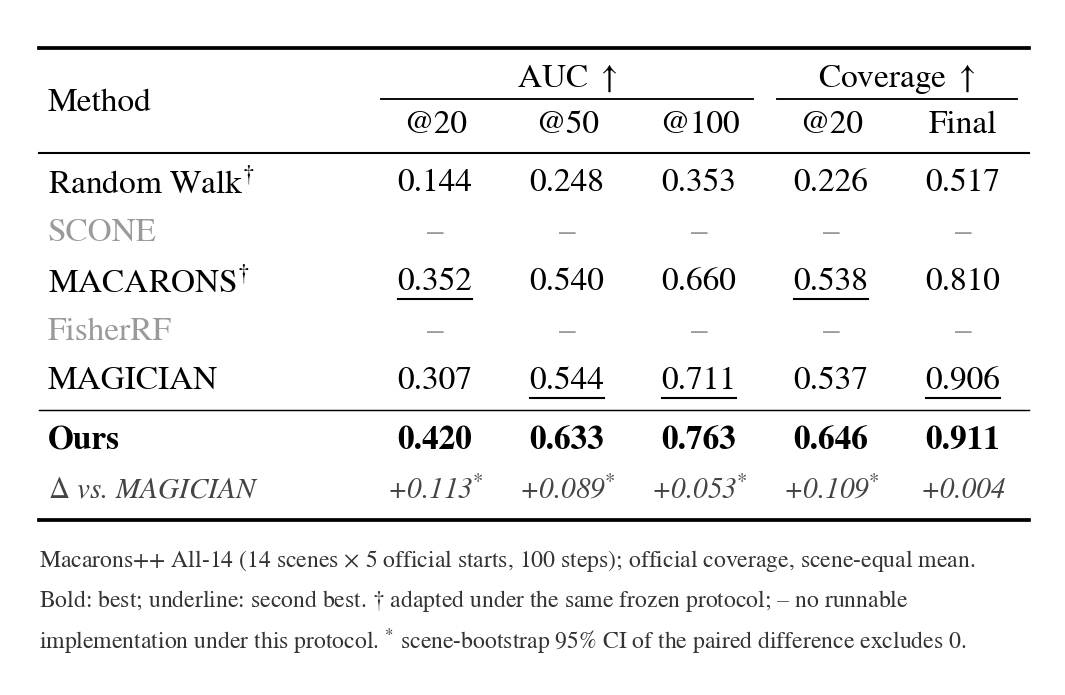
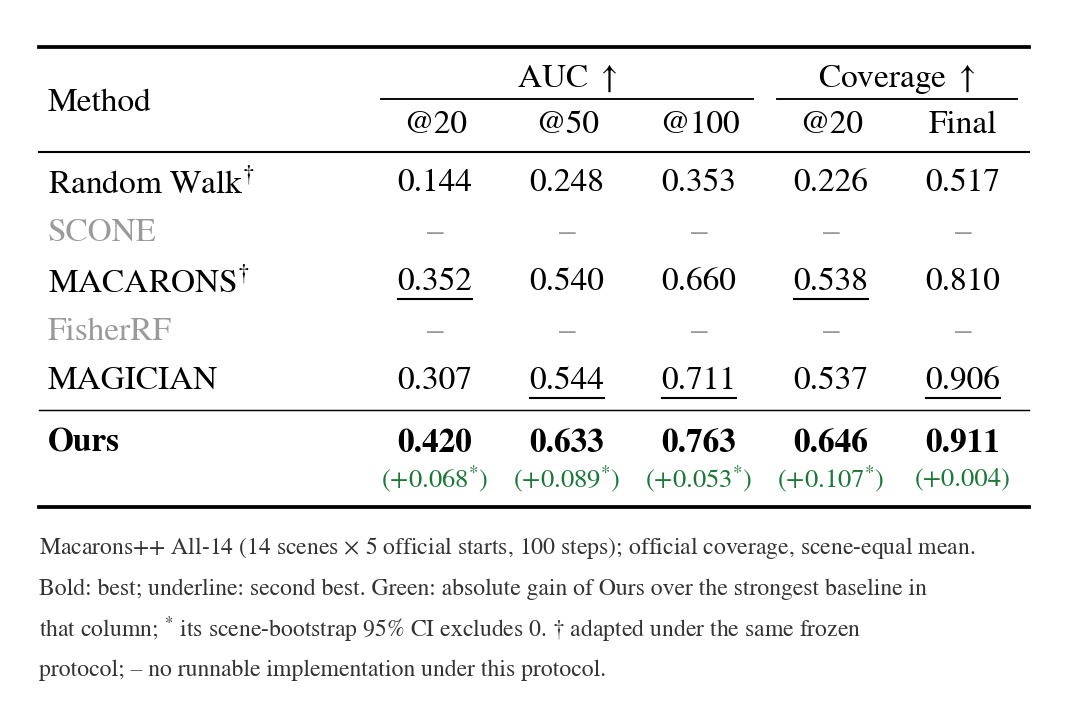
[V3][cvpr] Table 1 v2: drop the Delta row; gains over the strongest baseline per column shown under the Ours values

diff --git a/experiments/cvpr_results/scripts/make_table1_v2.py b/experiments/cvpr_results/scripts/make_table1_v2.py
@@ -1,5 +1,6 @@
-"""CVPR Table 1, paper layout v2 (CPU): two-level header (AUC up | Coverage up), best bold / second-best underlined, a
-'Delta vs. MAGICIAN' row (scene-paired difference, * = scene-bootstrap 95 % CI excludes 0), unavailable baselines greyed.
+"""CVPR Table 1, paper layout v2 (CPU): two-level header (AUC up | Coverage up), best bold / second-best underlined, unavailable
+baselines greyed. Under every value of the Ours row: the absolute gain over the STRONGEST baseline of that column (scene-paired
+difference of the scene-equal means; * = its scene-bootstrap 95 % CI excludes 0). No separate Delta row (user decision 2026-11-10).
 Same numbers as table1_paper.csv (read from table1_all14_full.csv / table1_paired_ours_minus_baseline.csv, which are generated
 from manifest/episodes.csv). Output: fig/table1/table1_v2.{pdf,png,tex,csv}. No LaTeX on the cluster: the PDF / PNG are drawn
 with matplotlib (STIX = Times-compatible, vector, embedded TrueType); the .tex is booktabs and only syntax-checked here."""
@@ -24,6 +25,17 @@ def load():
     return full, pr
 
 
+def gains(full, pr):
+    """per metric: (strongest complete baseline, paired diff Ours - that baseline, significant?)."""
+    out = {}
+    base = [m for m in L.TABLE1 if m != "V3-T0-D1" and full[m]["status"] == "COMPLETE"]
+    for _, _, k in COLS:
+        b = max(base, key=lambda m: float(full[m][k]))
+        r = pr[(b, k)]
+        out[k] = (b, float(r["mean_diff"]), float(r["ci95_lo"]) > 0 or float(r["ci95_hi"]) < 0, float(r["ci95_lo"]), float(r["ci95_hi"]))
+    return out
+
+
 def ranks(full):
     """per metric: (best set, second set) among complete methods, compared after rounding to 3 decimals."""
     comp = [m for m in L.TABLE1 if full[m]["status"] == "COMPLETE"]
@@ -36,8 +48,9 @@ def ranks(full):
 
 def draw(full, pr, base, width=3.35, fs=8.0):
     rk = ranks(full)
+    gn = gains(full, pr)
     methods = L.TABLE1
-    nrow = len(methods) + 1
+    nrow = len(methods) + 0.75
     cw = [1.10] + [(width - 1.10 - 0.05) / len(COLS)] * len(COLS)
     rh = 0.165
     H = rh * (nrow + 2.5) + 0.55
@@ -65,8 +78,10 @@ def draw(full, pr, base, width=3.35, fs=8.0):
             y -= rh * 0.08
             ax.plot([0.03, xr], [y, y], color="k", lw=0.35)
             y -= rh * 0.12
-        yc = y - rh / 2                                                                      # row centre
-        y -= rh
+        ours = m == "V3-T0-D1"
+        hgt = rh * (1.75 if ours else 1.0)
+        yc = y - (rh * 0.5 if not ours else rh * 0.55)                                       # value line centre
+        y -= hgt
         avail = full[m]["status"] == "COMPLETE"
         col = "k" if avail else "#9A9A9A"
         ax.text(x0[0] + 0.03, yc, NAMES[m], fontsize=fs, va="center", ha="left", color=col, fontweight="bold" if m == "V3-T0-D1" else "normal")
@@ -78,13 +93,9 @@ def draw(full, pr, base, width=3.35, fs=8.0):
             t = ax.text(xc[j], yc, f"{float(full[m][k]):.3f}", fontsize=fs, ha="center", va="center", fontweight="bold" if m in best else "normal")
             if m in second:
                 texts.append(t)
-    yc = y - rh * 0.5
-    y -= rh
-    ax.text(x0[0] + 0.03, yc, "$\\Delta$ vs. MAGICIAN", fontsize=fs - 1.0, va="center", ha="left", color="#444444", style="italic")
-    for j, (_, _, k) in enumerate(COLS, 1):
-        r = pr[(base, k)]
-        sig = float(r["ci95_lo"]) > 0 or float(r["ci95_hi"]) < 0
-        ax.text(xc[j], yc, f"{float(r['mean_diff']):+.3f}" + ("$^{*}$" if sig else ""), fontsize=fs - 1.0, ha="center", va="center", color="#444444", style="italic")
+            if ours:
+                _, d, sig, _, _ = gn[k]
+                ax.text(xc[j], yc - rh * 0.72, f"({d:+.3f}" + ("$^{*}$" if sig else "") + ")", fontsize=fs - 1.6, ha="center", va="center", color="#1B7837")
     y -= rh * 0.1
     ax.plot([0.03, xr], [y, y], color="k", lw=0.9)                                           # bottom rule
     fig.canvas.draw()
@@ -94,8 +105,9 @@ def draw(full, pr, base, width=3.35, fs=8.0):
         (a, b_), (c, _) = inv.transform([(bb.x0, bb.y0), (bb.x1, bb.y0)])
         ax.plot([a, c], [b_ - 0.008, b_ - 0.008], color="k", lw=0.5)
     notes = ["Macarons++ All-14 (14 scenes $\\times$ 5 official starts, 100 steps); official coverage, scene-equal mean.",
-             "Bold: best; underline: second best. $\\dagger$ adapted under the same frozen protocol; – no runnable",
-             "implementation under this protocol. $^{*}$ scene-bootstrap 95% CI of the paired difference excludes 0."]
+             "Bold: best; underline: second best. Green: absolute gain of Ours over the strongest baseline in",
+             "that column; $^{*}$ its scene-bootstrap 95% CI excludes 0. $\\dagger$ adapted under the same frozen",
+             "protocol; – no runnable implementation under this protocol."]
     for n in notes:
         y -= 0.135
         ax.text(0.03, y, n, fontsize=fs - 2.3, va="center", ha="left", color="#333333")
@@ -105,7 +117,7 @@ def draw(full, pr, base, width=3.35, fs=8.0):
 def tex(full, pr, base):
     rk = ranks(full)
     L_ = [r"% Table 1 (paper layout v2), generated by experiments/cvpr_results/scripts/make_table1_v2.py -- do not edit by hand",
-          r"% needs \usepackage{booktabs} (and \usepackage{xcolor} for the grey rows)", r"\begin{table}[t]", r"\centering", r"\small", r"\setlength{\tabcolsep}{4pt}",
+          r"% needs \usepackage{booktabs} and \usepackage[dvipsnames]{xcolor} (grey rows, ForestGreen gains)", r"\begin{table}[t]", r"\centering", r"\small", r"\setlength{\tabcolsep}{4pt}",
           r"\begin{tabular}{@{}lccccc@{}}", r"\toprule", r" & \multicolumn{3}{c}{AUC $\uparrow$} & \multicolumn{2}{c}{Coverage $\uparrow$} \\", r"\cmidrule(lr){2-4} \cmidrule(l){5-6}",
           r"Method & @20 & @50 & @100 & @20 & Final \\", r"\midrule"]
     for m in L.TABLE1:
@@ -119,16 +131,15 @@ def tex(full, pr, base):
             v = f"{float(full[m][k]):.3f}"
             best, second = rk[k]
             cells.append(r"\textbf{" + v + "}" if m in best else (r"\underline{" + v + "}" if m in second else v))
+        if m == "V3-T0-D1":
+            gn = gains(full, pr)
+            cells = [r"\begin{tabular}[c]{@{}c@{}}" + c + r" \\[-2pt] {\scriptsize\color{ForestGreen}(" + f"{gn[k][1]:+.3f}".replace("-", "$-$") + (r"$^{*}$" if gn[k][2] else "") + r")}\end{tabular}"
+                     for c, (_, _, k) in zip(cells, COLS)]
         L_.append((r"\textbf{Ours}" if m == "V3-T0-D1" else TEXN[m]) + " & " + " & ".join(cells) + r" \\")
-    d = []
-    for _, _, k in COLS:
-        r = pr[(base, k)]
-        sig = float(r["ci95_lo"]) > 0 or float(r["ci95_hi"]) < 0
-        d.append(r"\textit{" + f"{float(r['mean_diff']):+.3f}".replace("-", "$-$") + "}" + (r"$^{*}$" if sig else ""))
-    L_ += [r"\textit{\footnotesize $\Delta$ vs.\ MAGICIAN} & " + " & ".join(r"{\footnotesize " + x + "}" for x in d) + r" \\", r"\bottomrule", r"\end{tabular}",
+    L_ += [r"\bottomrule", r"\end{tabular}",
            r"\caption{Active reconstruction on Macarons++ (14 scenes $\times$ 5 official start poses, 100 steps, official coverage; scene-equal means). "
-           r"Bold: best; underline: second best. $^{\dagger}$Adapted under the same frozen protocol. --: no runnable implementation under this protocol. "
-           r"$\Delta$: scene-paired difference to MAGICIAN; $^{*}$its scene-bootstrap 95\% CI excludes 0.}", r"\label{tab:main}", r"\end{table}"]
+           r"Bold: best; underline: second best. Green: absolute gain of Ours over the strongest baseline in that column (scene-paired); "
+           r"$^{*}$its scene-bootstrap 95\% CI excludes 0. $^{\dagger}$Adapted under the same frozen protocol. --: no runnable implementation under this protocol.}", r"\label{tab:main}", r"\end{table}"]
     return "\n".join(L_) + "\n"
 
 
@@ -138,6 +149,10 @@ if __name__ == "__main__":
     RD.save(fig, os.path.join(OUT, "table1_v2"))
     open(os.path.join(OUT, "table1_v2.tex"), "w").write(tex(full, pr, "MAG-B"))
     rows = [[L.METHODS[m]["display"], full[m]["status"]] + ([f"{float(full[m][k]):.3f}" for _, _, k in COLS] if full[m]["status"] == "COMPLETE" else [""] * len(COLS)) for m in L.TABLE1]
-    rows.append(["Delta vs. MAGICIAN (scene-paired)", ""] + [f"{float(pr[('MAG-B', k)]['mean_diff']):+.3f} [{float(pr[('MAG-B', k)]['ci95_lo']):+.3f}, {float(pr[('MAG-B', k)]['ci95_hi']):+.3f}]" for _, _, k in COLS])
+    gn = gains(full, pr)
+    rows.append(["Ours gain over the strongest baseline of the column (scene-paired, 95% CI)", ""] + [f"{gn[k][1]:+.3f} [{gn[k][3]:+.3f}, {gn[k][4]:+.3f}] vs {L.METHODS[gn[k][0]]['display']}" for _, _, k in COLS])
+    for k in [c[2] for c in COLS]:
+        b_ = gn[k][0]; o = float(full["V3-T0-D1"][k]); v = float(full[b_][k])
+        print(f"{k}: strongest baseline {b_} {v:.3f} | Ours {o:.3f} | gain {gn[k][1]:+.3f} [{gn[k][3]:+.3f}, {gn[k][4]:+.3f}]{' *' if gn[k][2] else ''} | relative {100 * (o - v) / v:+.1f}%")
     L.write_csv(os.path.join(OUT, "table1_v2.csv"), ["Method", "status", "AUC@20 (up)", "AUC@50 (up)", "AUC@100 (up)", "Coverage@20 (up)", "Final coverage = Coverage@100 (up)"], rows)
     print("table1_v2 written")

diff --git a/experiments/cvpr_results/fig/table1/table1_v2.tex b/experiments/cvpr_results/fig/table1/table1_v2.tex
@@ -1,5 +1,5 @@
 % Table 1 (paper layout v2), generated by experiments/cvpr_results/scripts/make_table1_v2.py -- do not edit by hand
-% needs \usepackage{booktabs} (and \usepackage{xcolor} for the grey rows)
+% needs \usepackage{booktabs} and \usepackage[dvipsnames]{xcolor} (grey rows, ForestGreen gains)
 \begin{table}[t]
 \centering
 \small
@@ -16,10 +16,9 @@ MACARONS$^{\dagger}$ & \underline{0.352} & 0.540 & 0.660 & \underline{0.538} & 0
 \textcolor{gray}{FisherRF} & \textcolor{gray}{--} & \textcolor{gray}{--} & \textcolor{gray}{--} & \textcolor{gray}{--} & \textcolor{gray}{--} \\
 MAGICIAN & 0.307 & \underline{0.544} & \underline{0.711} & 0.537 & \underline{0.906} \\
 \midrule
-\textbf{Ours} & \textbf{0.420} & \textbf{0.633} & \textbf{0.763} & \textbf{0.646} & \textbf{0.911} \\
-\textit{\footnotesize $\Delta$ vs.\ MAGICIAN} & {\footnotesize \textit{+0.113}$^{*}$} & {\footnotesize \textit{+0.089}$^{*}$} & {\footnotesize \textit{+0.053}$^{*}$} & {\footnotesize \textit{+0.109}$^{*}$} & {\footnotesize \textit{+0.004}} \\
+\textbf{Ours} & \begin{tabular}[c]{@{}c@{}}\textbf{0.420} \\[-2pt] {\scriptsize\color{ForestGreen}(+0.068$^{*}$)}\end{tabular} & \begin{tabular}[c]{@{}c@{}}\textbf{0.633} \\[-2pt] {\scriptsize\color{ForestGreen}(+0.089$^{*}$)}\end{tabular} & \begin{tabular}[c]{@{}c@{}}\textbf{0.763} \\[-2pt] {\scriptsize\color{ForestGreen}(+0.053$^{*}$)}\end{tabular} & \begin{tabular}[c]{@{}c@{}}\textbf{0.646} \\[-2pt] {\scriptsize\color{ForestGreen}(+0.107$^{*}$)}\end{tabular} & \begin{tabular}[c]{@{}c@{}}\textbf{0.911} \\[-2pt] {\scriptsize\color{ForestGreen}(+0.004)}\end{tabular} \\
 \bottomrule
 \end{tabular}
-\caption{Active reconstruction on Macarons++ (14 scenes $\times$ 5 official start poses, 100 steps, official coverage; scene-equal means). Bold: best; underline: second best. $^{\dagger}$Adapted under the same frozen protocol. --: no runnable implementation under this protocol. $\Delta$: scene-paired difference to MAGICIAN; $^{*}$its scene-bootstrap 95\% CI excludes 0.}
+\caption{Active reconstruction on Macarons++ (14 scenes $\times$ 5 official start poses, 100 steps, official coverage; scene-equal means). Bold: best; underline: second best. Green: absolute gain of Ours over the strongest baseline in that column (scene-paired); $^{*}$its scene-bootstrap 95\% CI excludes 0. $^{\dagger}$Adapted under the same frozen protocol. --: no runnable implementation under this protocol.}
 \label{tab:main}
 \end{table}

diff --git a/experiments/cvpr_results/report/RESULTS.md b/experiments/cvpr_results/report/RESULTS.md
@@ -1,4 +1,4 @@
-# RESULTS — CVPR overnight 2026-11-10（生成于 2026-11-10 15:44:06，git 60230b300dd6）
+# RESULTS — CVPR overnight 2026-11-10（生成于 2026-11-10 15:53:32，git 5d16124d9c18）
 
 由 `scripts/make_reports.py` 从生成的 CSV / manifest 自动汇总。所有数值 = 冻结协议（14 场景 × 5 官方起点 × 100 步，MAGICIAN 官方覆盖，场景等权）下的真实 episode；未跑满 70 条的方法不出现在 All-14 数值里。CI = 场景级配对 bootstrap 95%（重抽样单位 = 场景）。
 

diff --git a/experiments/cvpr_results/report/VALIDATION.md b/experiments/cvpr_results/report/VALIDATION.md
@@ -1,4 +1,4 @@
-# VALIDATION — 自动质量关口（生成于 2026-11-10 15:44:06，git 60230b300dd6）
+# VALIDATION — 自动质量关口（生成于 2026-11-10 15:53:32，git 5d16124d9c18）
 
 由 `experiments/cvpr_results/scripts/validate.py` 生成；每一项都从磁盘上的文件重新计算。PENDING = 相关运行尚未完成，不能判定，**不等于通过**。
 

diff --git a/experiments/cvpr_results/report/MISSING.md b/experiments/cvpr_results/report/MISSING.md
@@ -1,4 +1,4 @@
-# MISSING — 尚缺的 episode 与可直接执行的下一步（生成于 2026-11-10 15:44:06）
+# MISSING — 尚缺的 episode 与可直接执行的下一步（生成于 2026-11-10 15:53:32）
 
 | 方法 / 配置 | 完成 | 缺失 | 失败（放弃） | 状态 |
 |---|---|---|---|---|

diff --git a/experiments/cvpr_results/report/RUN_LOG.md b/experiments/cvpr_results/report/RUN_LOG.md
@@ -1,4 +1,4 @@
-# RUN_LOG — CVPR overnight 2026-11-10（生成于 2026-11-10 15:44:06，git 60230b300dd6）
+# RUN_LOG — CVPR overnight 2026-11-10（生成于 2026-11-10 15:53:32，git 5d16124d9c18）
 
 ## 环境
 
